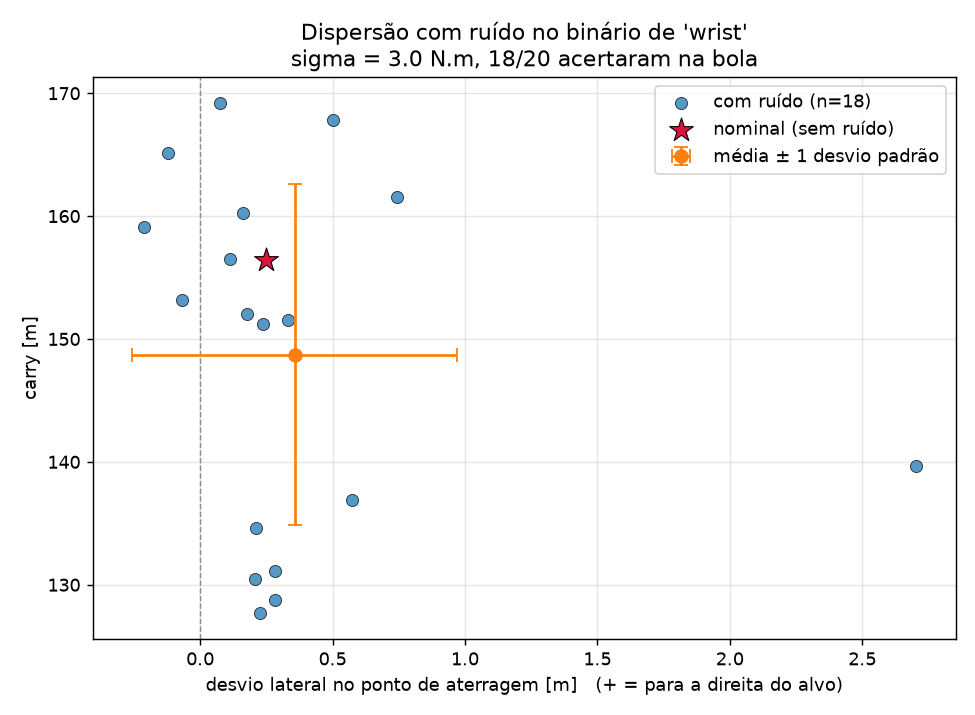
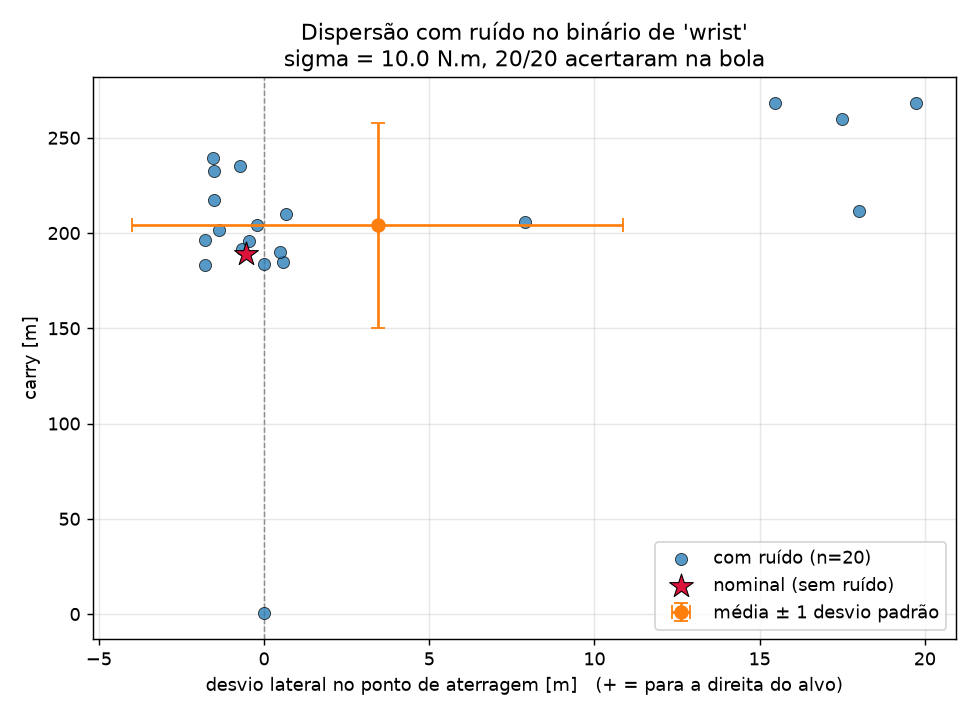
Lab1: libertacao tardia do pulso leva o swing a 37 m/s; README atualizado
O --f-release nao estava a ser aplicado pela linha de comandos (o bloco que o
passava para os parametros nao tinha sido escrito). Corrigido, revelou que
libertar o pulso mais tarde e o que falta para chegar a meta de realismo:
  f_release 0.10 -> 26.8 m/s   0.30 -> 29.4 m/s   0.65 -> 37.2 m/s
Com 0.65: bola a 45.6 m/s, smash 1.22, impacto a (+0.8, -1.1) graus.

O varrimento anterior tinha falhado isto porque filtrava por saturacao < 5 %.
O criterio certo e a precisao do impacto: saturar nao e problema enquanto a
trajetoria continua a ser seguida e o taco passa na bola.

Tambem:
- t_sim 6 -> 9 s: com a bola mais rapida ela ja nao aterrava a tempo e o carry
  saia nan, o que fazia metade dos swings com ruido contarem como falhados.
- swing.py avisa quando o impacto cai longe de (0,0) (batida ma).
- ruido por omissao 5 -> 10 N.m: com o pulso saturado 30 % do tempo, ruido
  pequeno e cortado pela saturacao e o teste nao mostrava nada.

diff --git a/Lab1/src/swing.py b/Lab1/src/swing.py
@@ -57,11 +57,11 @@ MODEL = "models/golfer_v13.xml"
 DEFAULTS = dict(
     q_top_shoulder=-125.0,  # ângulo dos braços no topo do backswing [deg]
     q_top_wrist=-95.0,      # armação do pulso no topo [deg] (real: ~90)
-    f_release=0.30,         # fração do downswing em que o pulso começa a soltar
+    f_release=0.65,         # fração do downswing em que o pulso começa a soltar
     t_back=0.75,            # duração do backswing [s]
     t_pause=0.05,           # pausa no topo [s]
     t_down=0.30,            # topo -> impacto [s]  (real: 0.25-0.30 s)
-    t_sim=6.0,              # duração total simulada [s] (até a bola parar)
+    t_sim=9.0,              # duração total simulada [s] (tem de dar para a bola aterrar)
     kp=900.0,               # ganhos do PD (rad/s^2 por rad, e por rad/s)
     kd=60.0,
 )
@@ -136,6 +136,11 @@ def reference(t, p):
     # é o que distingue um swing eficiente de um "casting" (soltar cedo): com o
     # taco dobrado a inércia é baixa, logo o braço acelera barato, e a energia
     # é entregue à cabeça do taco no fim, quando o braço de alavanca é longo.
+    #
+    # O efeito é grande e mede-se: mantendo tudo o resto igual,
+    #   f_release = 0.10 -> 26.8 m/s     0.30 -> 29.4 m/s     0.65 -> 37.2 m/s
+    # Soltar tarde vale +39 % de velocidade da cabeça do taco. Acima de ~0.70 o
+    # pulso já não tem tempo de chegar a zero e a batida sai má.
     t_rel = p.get("f_release", 0.55) * t_down
     if u < t_rel:
         q[1], v[1], a[1] = q_top[1], 0.0, 0.0
@@ -405,6 +410,8 @@ def main():
         params["q_top_shoulder"] = args.q_top_shoulder
     if args.q_top_wrist is not None:
         params["q_top_wrist"] = args.q_top_wrist
+    if args.f_release is not None:
+        params["f_release"] = args.f_release
 
     if args.view:
         view(params)
@@ -422,12 +429,22 @@ def main():
           f"desvio lateral {r['side']:+.1f} deg")
     print(f"  juntas no impacto         : braço {r['q_impact'][0]:+.1f} deg, "
           f"pulso {r['q_impact'][1]:+.1f} deg   (alvo: 0, 0)")
-    print(f"  carry (até aterrar)       : {r['carry']:6.1f} m   "
-          f"(desvio lateral {r['land_y']:+.2f} m)")
+    if np.isnan(r["carry"]):
+        print("  carry (até aterrar)       :    -    "
+              "(a bola não aterrou dentro de t_sim)")
+    else:
+        print(f"  carry (até aterrar)       : {r['carry']:6.1f} m   "
+              f"(desvio lateral {r['land_y']:+.2f} m)")
     print(f"  binário máx usado         : braço {r['tau_max'][0]:.0f} N.m, "
           f"pulso {r['tau_max'][1]:.0f} N.m")
     print(f"  saturação no downswing    : braço {r['sat'][0]*100:.0f} %, "
           f"pulso {r['sat'][1]*100:.0f} %")
+    # o taco só passa na bola se as duas juntas chegarem a zero juntas; se o
+    # impacto se der longe de (0,0) a batida é má, por muito boa que a
+    # velocidade pareça
+    if np.abs(r["q_impact"]).max() > 3.0:
+        print("  AVISO: impacto longe de (0,0) — batida má. Provavelmente os "
+              "motores saturaram e a trajetória deixou de ser seguida.")
 
 
 if __name__ == "__main__":

diff --git a/Lab1/src/perturbacoes.py b/Lab1/src/perturbacoes.py
@@ -59,7 +59,7 @@ def main():
     ap = argparse.ArgumentParser(description="Perturbações no binário das juntas")
     ap.add_argument("--n", type=int, default=20, help="número de swings")
     ap.add_argument("--junta", default="wrist", choices=["wrist", "shoulder"])
-    ap.add_argument("--std", type=float, default=5.0,
+    ap.add_argument("--std", type=float, default=10.0,
                     help="desvio padrão do ruído no binário [N.m]")
     args = ap.parse_args()
 

diff --git a/Lab1/README.md b/Lab1/README.md
@@ -2,59 +2,158 @@
 
 Enunciado: [lab_1_2026.pdf](lab_1_2026.pdf). Prazo: 9 out 2026.
 
+Simulação de um jogador de golfe + taco (o "robot") a bater numa bola, em
+MuJoCo + Python. O modelo tem **2 graus de liberdade atuados**: o braço e o
+pulso — o pêndulo duplo clássico do swing (Cochran & Stobbs, *Search for the
+Perfect Swing*, 1968).
+
 ## Setup (Mac / Windows / Linux)
+
+Precisa de **Python ≥ 3.10** (o 3.9 não tem wheel do MuJoCo recente).
 
 ```bash
 cd Lab1
 python -m venv .venv
-# Mac/Linux:
-source .venv/bin/activate
-# Windows:
-.venv\Scripts\activate
-
+source .venv/bin/activate      # Mac/Linux
+.venv\Scripts\activate         # Windows
 pip install -r requirements.txt
 ```
 
 ## Correr
 
-Todos os comandos a partir da pasta `Lab1/`:
+Todos os comandos a partir da pasta `Lab1/`.
+
+### O swing
 
 ```bash
-python src/run_pendulum.py            # mede o período do pêndulo (valida a física)
-python src/run_pendulum.py --view     # viewer interativo
+python src/swing.py                 # corre um swing e imprime os resultados
+python src/swing.py --view          # viewer interativo, swing em tempo real
+python src/swing.py --f-release 0.3 # pulso a soltar CEDO ("casting"): perde velocidade
+python src/swing.py --t-down 0.34   # downswing mais lento
+```
+
+Parâmetros disponíveis: `--t-down`, `--q-top-shoulder`, `--q-top-wrist`,
+`--f-release`. Os valores por omissão estão em `DEFAULTS`, no topo de
+[src/swing.py](src/swing.py).
+
+Se o impacto cair longe de (0,0) o script avisa: significa que os motores
+saturaram e a trajetória deixou de ser seguida, e a velocidade que aparece é de
+uma batida má — não a uses.
+
+Resultado esperado:
+
+```
+  cabeça do taco no impacto :   37.2 m/s     (real, amador c/ ferro 7: 30-38)
+  bola                      :   45.6 m/s  (smash 1.22)
+  lançamento                :   31.7 deg
+  juntas no impacto         : braço +0.8 deg, pulso -1.1 deg   (alvo: 0, 0)
+  carry (até aterrar)       :  189.2 m
+```
+
+### Perturbações (Tarefa 2)
+
+```bash
+python src/perturbacoes.py                    # 20 swings, ruído de 10 N.m no pulso
+python src/perturbacoes.py --n 50 --std 20    # mais repetições, mais ruído
+python src/perturbacoes.py --junta shoulder   # ruído no braço
+```
+
+Grava `report/dispersao_perturbacao.png` com a dispersão dos pontos de aterragem.
+
+O ruído é mantido durante 1/10 s (banda do tremor fisiológico, 8-12 Hz) em vez
+de ser re-amostrado a cada passo — ruído branco por passo cancelava-se e o
+resultado dependia do passo de integração.
+
+**O pulso é o dof sensível**: com σ = 10 N·m, o ruído no pulso dá ~6 m de
+dispersão lateral e o no braço ~0.2 m. Um pulso trémulo manda a bola para o lado
+e às vezes faz uma batida falhada (bola "topada", lançamento negativo).
+
+### Imagens e vídeo
+
+```bash
+python src/renders.py                         # 5 fases x 2 câmaras -> report/
+python src/video.py --lento 8                 # vídeo em câmara lenta
+python src/video.py --lento 25 --camera down_the_line
+```
+
+O `--lento N` controla exatamente quantas vezes mais lento se vê o swing.
+Usa `ffmpeg` se existir; senão grava GIF (`--gif` força).
+
+### Os pêndulos (validação da física, dica 1 do enunciado)
+
+```bash
+python src/run_pendulum.py            # mede o período; erro < 0.2 % vs teoria
+python src/run_pendulum.py --view
 python src/run_pendulum_ball.py       # pêndulo a bater na bola
-python src/run_pendulum_ball.py --view
 ```
 
-Também podes abrir qualquer XML diretamente no viewer. **Tem de ser caminho absoluto**
-(o viewer perde a pasta atual ao abrir a janela):
+## Viewer
+
+O `--view` abre o swing a correr. Para abrir um XML solto:
 
 ```bash
-# Mac/Linux
-python -m mujoco.viewer --mjcf="$PWD/models/00_pendulum.xml"
+# Mac/Linux — tem de ser caminho ABSOLUTO (o viewer perde a pasta atual)
+python -m mujoco.viewer --mjcf="$PWD/models/golfer_v13.xml"
 # Windows (PowerShell)
-python -m mujoco.viewer --mjcf="$PWD\models\00_pendulum.xml"
+python -m mujoco.viewer --mjcf="$PWD\models\golfer_v13.xml"
 ```
 
-Ou abre o viewer vazio (`python -m mujoco.viewer`) e arrasta o XML para dentro da janela.
+Ou abre o viewer vazio (`python -m mujoco.viewer`) e arrasta o XML para a janela.
 
-Teclas úteis no viewer: **Space** play/pause · **Backspace** reset · **Ctrl+L** recarregar o XML
-depois de o editares · painel esquerdo *Rendering → Frame → Body* mostra os referenciais.
+| Tecla / painel | Faz |
+|---|---|
+| **Space** | play / pausa |
+| **Backspace** | repõe — faz novo swing |
+| **Ctrl+L** | recarrega o XML depois de o editares |
+| *Option → Help* | lista **todas** as teclas, incluindo a velocidade de reprodução |
+| *Option → Sensor* | gráficos ao vivo: ângulos, velocidades e binário de cada junta |
+| *Option → Info* | tempo, energia, nº de contactos |
+| painel direito → *Joint* | sliders, um por dof — mexer o boneco à mão |
+| *Rendering → Frame → Body* | desenha os referenciais de cada corpo |
 
-Nota Mac: não uses `mjpython`, está partido nesta versão; o `python` normal funciona.
+Notas macOS: não usar `mjpython` (avariado nesta versão); o `python` normal
+funciona. O `swing.py --view` regista o controlador com `set_mjcb_control` em vez
+de `launch_passive` precisamente para não depender do `mjpython`.
 
 ## Estrutura
 
 ```
-models/   ficheiros XML do MuJoCo (e STL, se houver)
-src/      scripts Python
-report/   relatório, sketches, gráficos
+models/   golfer_v13.xml   modelo do jogador + taco (comentado)
+          00_pendulum.xml  pêndulo simples (validação)
+          01_pendulum_ball.xml  pêndulo a bater na bola
+src/      swing.py         modelo de controlo + run_swing()
+          perturbacoes.py  Tarefa 2: ruído nas juntas + gráfico
+          renders.py       imagens das fases do swing
+          video.py         vídeo em câmara lenta
+          run_pendulum*.py validação da física
+report/   imagens, gráficos e relatório
 ```
+
+## O modelo em duas linhas
+
+- **Referenciais:** origem do mundo na bola, X = direção do alvo, Z para cima;
+  o jogador está do lado +Y.
+- **dof 1 — braço:** os braços rodam em bloco em torno do centro do peito, num
+  eixo normal ao plano de swing. Motor ±150 N·m.
+- **dof 2 — pulso:** o taco roda em torno do punho. Motor ±40 N·m. No topo está
+  armado ~95° e só solta a 65 % do downswing ("lag") — é isto que gera
+  velocidade, porque com o taco dobrado a inércia é baixa. Soltar a 10 % dá
+  26.8 m/s; a 65 % dá 37.2 m/s (+39 %).
+- Tudo o resto (pernas, ancas, tronco, cotovelos) é **rígido** na pose de
+  endereço.
+
+O controlo é **binário calculado**: `tau = M(q)·a_cmd + h(q,v)`, com os binários
+sempre saturados no `ctrlrange` do XML. A trajetória do downswing tem aceleração
+constante e o **mesmo T nas duas juntas**, o que as faz cruzar q = 0 em
+simultâneo — é a condição para a cabeça do taco passar na bola.
+
+Lista completa de simplificações e do seu impacto: `report/simplificacoes.md`.
 
 ## Versões
 
 | Tag   | Conteúdo |
 |-------|----------|
-| v13   | pêndulos + golfista 2 dof + 1 teste + relatório |
-| v17   | + pulso (3 dof), parâmetros reais, bateria de testes com ruído por dof |
-| v20   | + STL, braço duplo, análise de sensibilidade |
+| `pendulo-base` | pêndulo simples + pêndulo a bater na bola, validados |
+| v13   | golfista 2 dof (braço + pulso) + testes de perturbação + relatório |
+| v17   | + ombros articulados, parâmetros antropométricos, bateria de testes por dof |
+| v20   | + STL, análise de sensibilidade |
